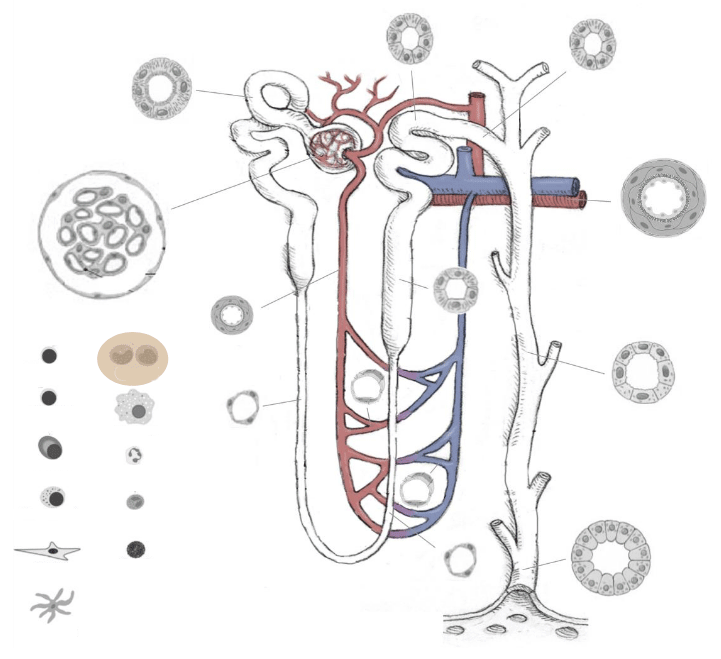
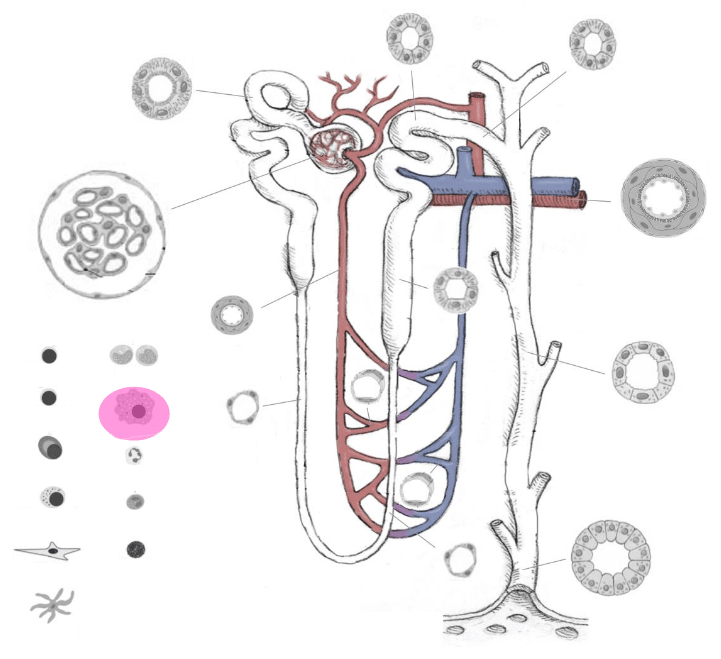
KPMP-607 fixed image rollovers for monocyte, macrophage, interstitial/fibroblast and t-cell

Changed region(s): [[0.1221, 0.4856, 0.2441, 0.6677]]

diff --git a/src/index.scss b/src/index.scss
@@ -73,8 +73,8 @@ code {
     background-image: url($schematic-img-base-path + 't-cells.png');
   }
 
-  div.interstitium {
-    background-image: url($schematic-img-base-path + 'interstitium.png');
+  div.fibroblast {
+    background-image: url($schematic-img-base-path + 'fibroblast.png');
   }
 
   div.vascular-smooth {
